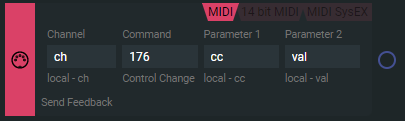
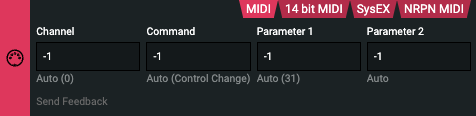
updating midi block article

diff --git a/docs/wiki/more/dynamically-assigned-MIDI-ch-and-cc.md b/docs/wiki/more/dynamically-assigned-MIDI-ch-and-cc.md
@@ -23,46 +23,39 @@ You can always return to the default Grid configuration when using the **Clear**
 
 So as an example here's a default MIDI Block from that module:
 
-<ImageLightbox imageSrc={img1} citation={'Observe that 3 out of 4 parameters are set with variables, not with discrete values.'}/>
+<ImageLightbox imageSrc={img1} citation={'-1 is the automatic assign mode'}/>
 
 
 What does this all mean?  
-If you check the MIDI monitor within Grid Editor, you'll see that if you interact with the control element, Grid will send out messages normally, but then how did all these variables become CC messages?
+If you check the MIDI monitor within Grid Editor, you'll see that if you interact with the control element, Grid will send out messages normally.
 
-## What is so dynamic about the default Grid configuration?
+## How is calculated dynamically?
 
-To try and understand how this works, let's dissect the above image to see what these variables mean and how do they influence the behavior of Grid:
 
-- This MIDI Block sends out a MIDI message on MIDI channel `ch`, and this message command will be a **Control Change** type (number 176, commonly also known as CC).
-- That **Control Change** message will have parameters of `cc` (which MIDI Control Change message is being sent out from 0-119) and `val` that will be the value the chosen CC will have to set to.
+### Channel
 
-So we have three names instead of numbers in our block, let's see what they do and how:
+ `(module_position_y()*4+page_current())%16`. 
 
-<ImageLightbox imageSrc={img2} citation={'The Local Variables Action block is where one can define variables to use when the Event is triggered.'}/>
+The outcome of the Auto(-1)  depends on which position is our module in on the y axis AND which Page we're using.
 
-### The MIDI channel
+### Command
 
-Here `ch` is the MIDI Channel the message is being sent on and since it's dynamic, it's not a preset value (although it could be one from 0-15) but a [**variable**](/docs/wiki/more/element-referencing.md#variables) named "ch". 
+The command depends on whether it’s a Button element or another type of element.
 
-This `ch` variable is has a way it behaves and how it behaves is set by the place it's first mentioned, the [Local Action block](/docs/wiki/actions/variables/local-variables.md). In there, as you can see on the picture above `ch` is defined as a complicated line of code: `(module_position_y()*4+page_current())%16`. 
+- A Button sends a Note message (144).
+- Other elements send out Control Change messages (176).
 
-The outcome of the `ch` varible depends on which position is our module in on the y axis AND which Page we're using.
+### parameter 1
 
-### The MIDI parameter 1
+ `(32+module_position_x()*16+self:element_index())%128` 
+ 
+ This means that value based on which position is the module in on the x axis AND on which control element we're interacting with.
 
-Here `cc` is the number of the Control Change message we're sending out for example number 1 is known as the Modulation Wheel message.
+### Message value
 
-This `cc` variable is also defined in the [[Local Block]]. - This one is also defined with a line of code: `(32+module_position_x()*16+self:element_index())%128` This means that the `cc` variable will have a value based on which position is the module in on the x axis AND on which control element we're interacting with.
+`self:controlelement_value()`
 
-### The MIDI message value
-
-Here `val` is the actual value of this MIDI CC, it will always be set by the `self:controlelement_value()` function, meaning that this value will correspond to the status of the control element at all times - minimum state should be 0 and maximum state should be 127, so our `val` will by default be inbetween those values
-
-So based on this, for example if we have only one module plugged in and we interact with the top left control element we should see something like this: `ch`=0, `cc`=32 and the `val` values will range from 0 to 127.
-
-So esentially this is what it means that the values are dynamic. This behavior is default so that connecting multiple modules out of the box will not jumble the MIDI messages.
-
-It's also weird and unintuitive at times, so we hope that this explanation is useful in understanding how it works.
+meaning that this value will correspond to the status of the control element at all times
 
 ## Example of this dymanic behavior
 
